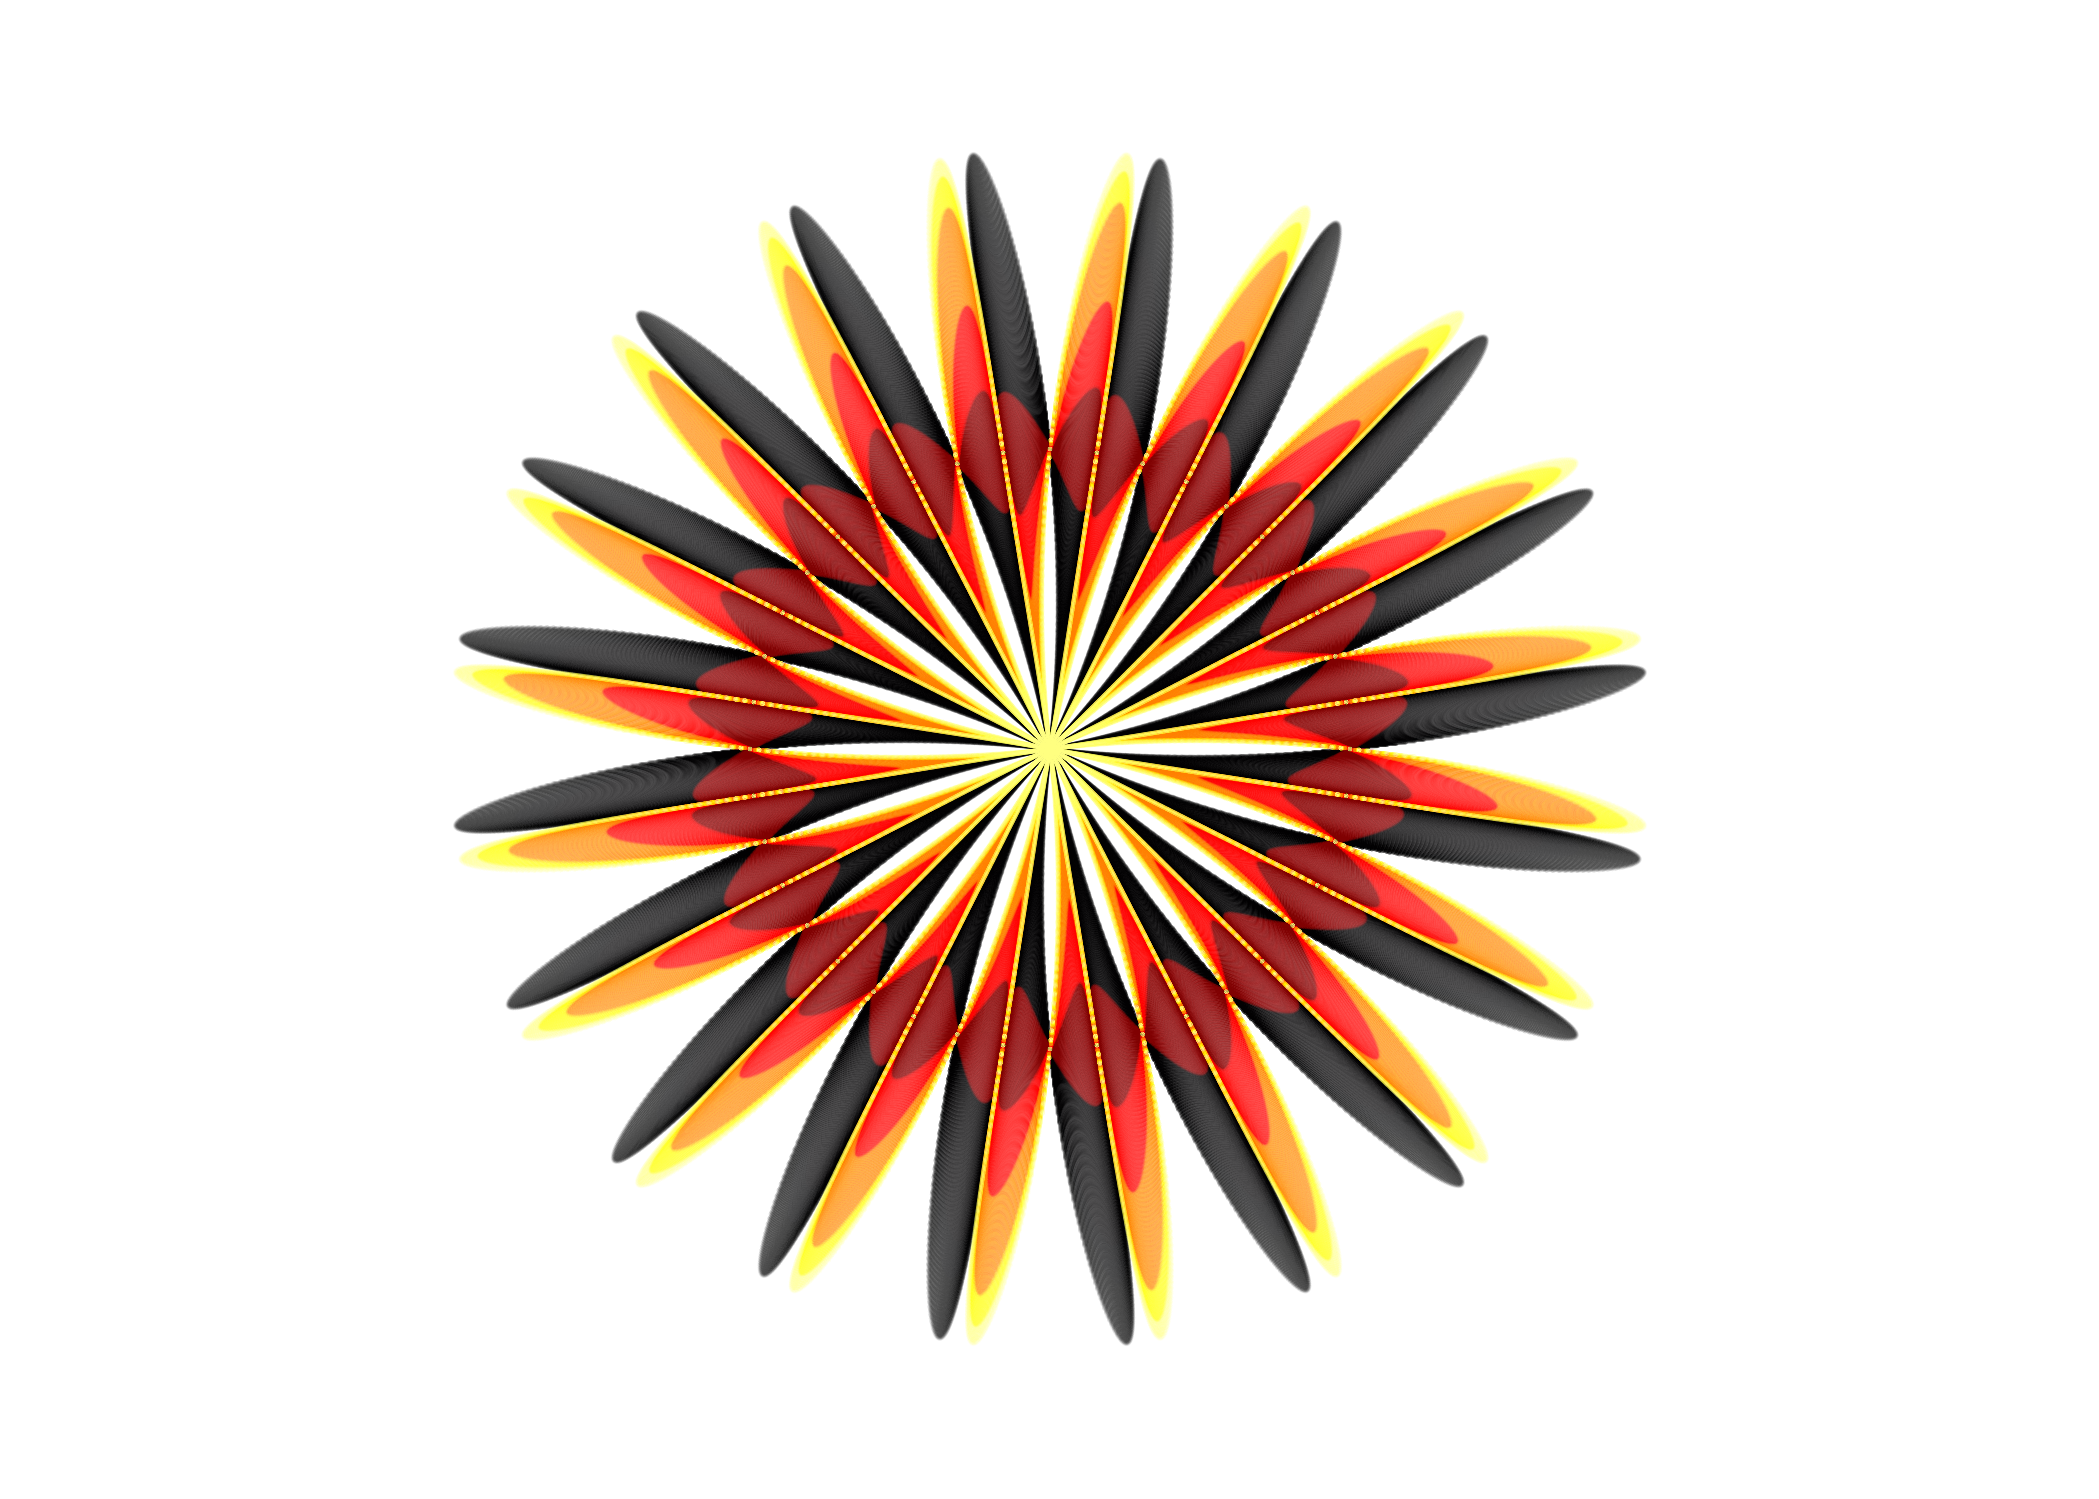
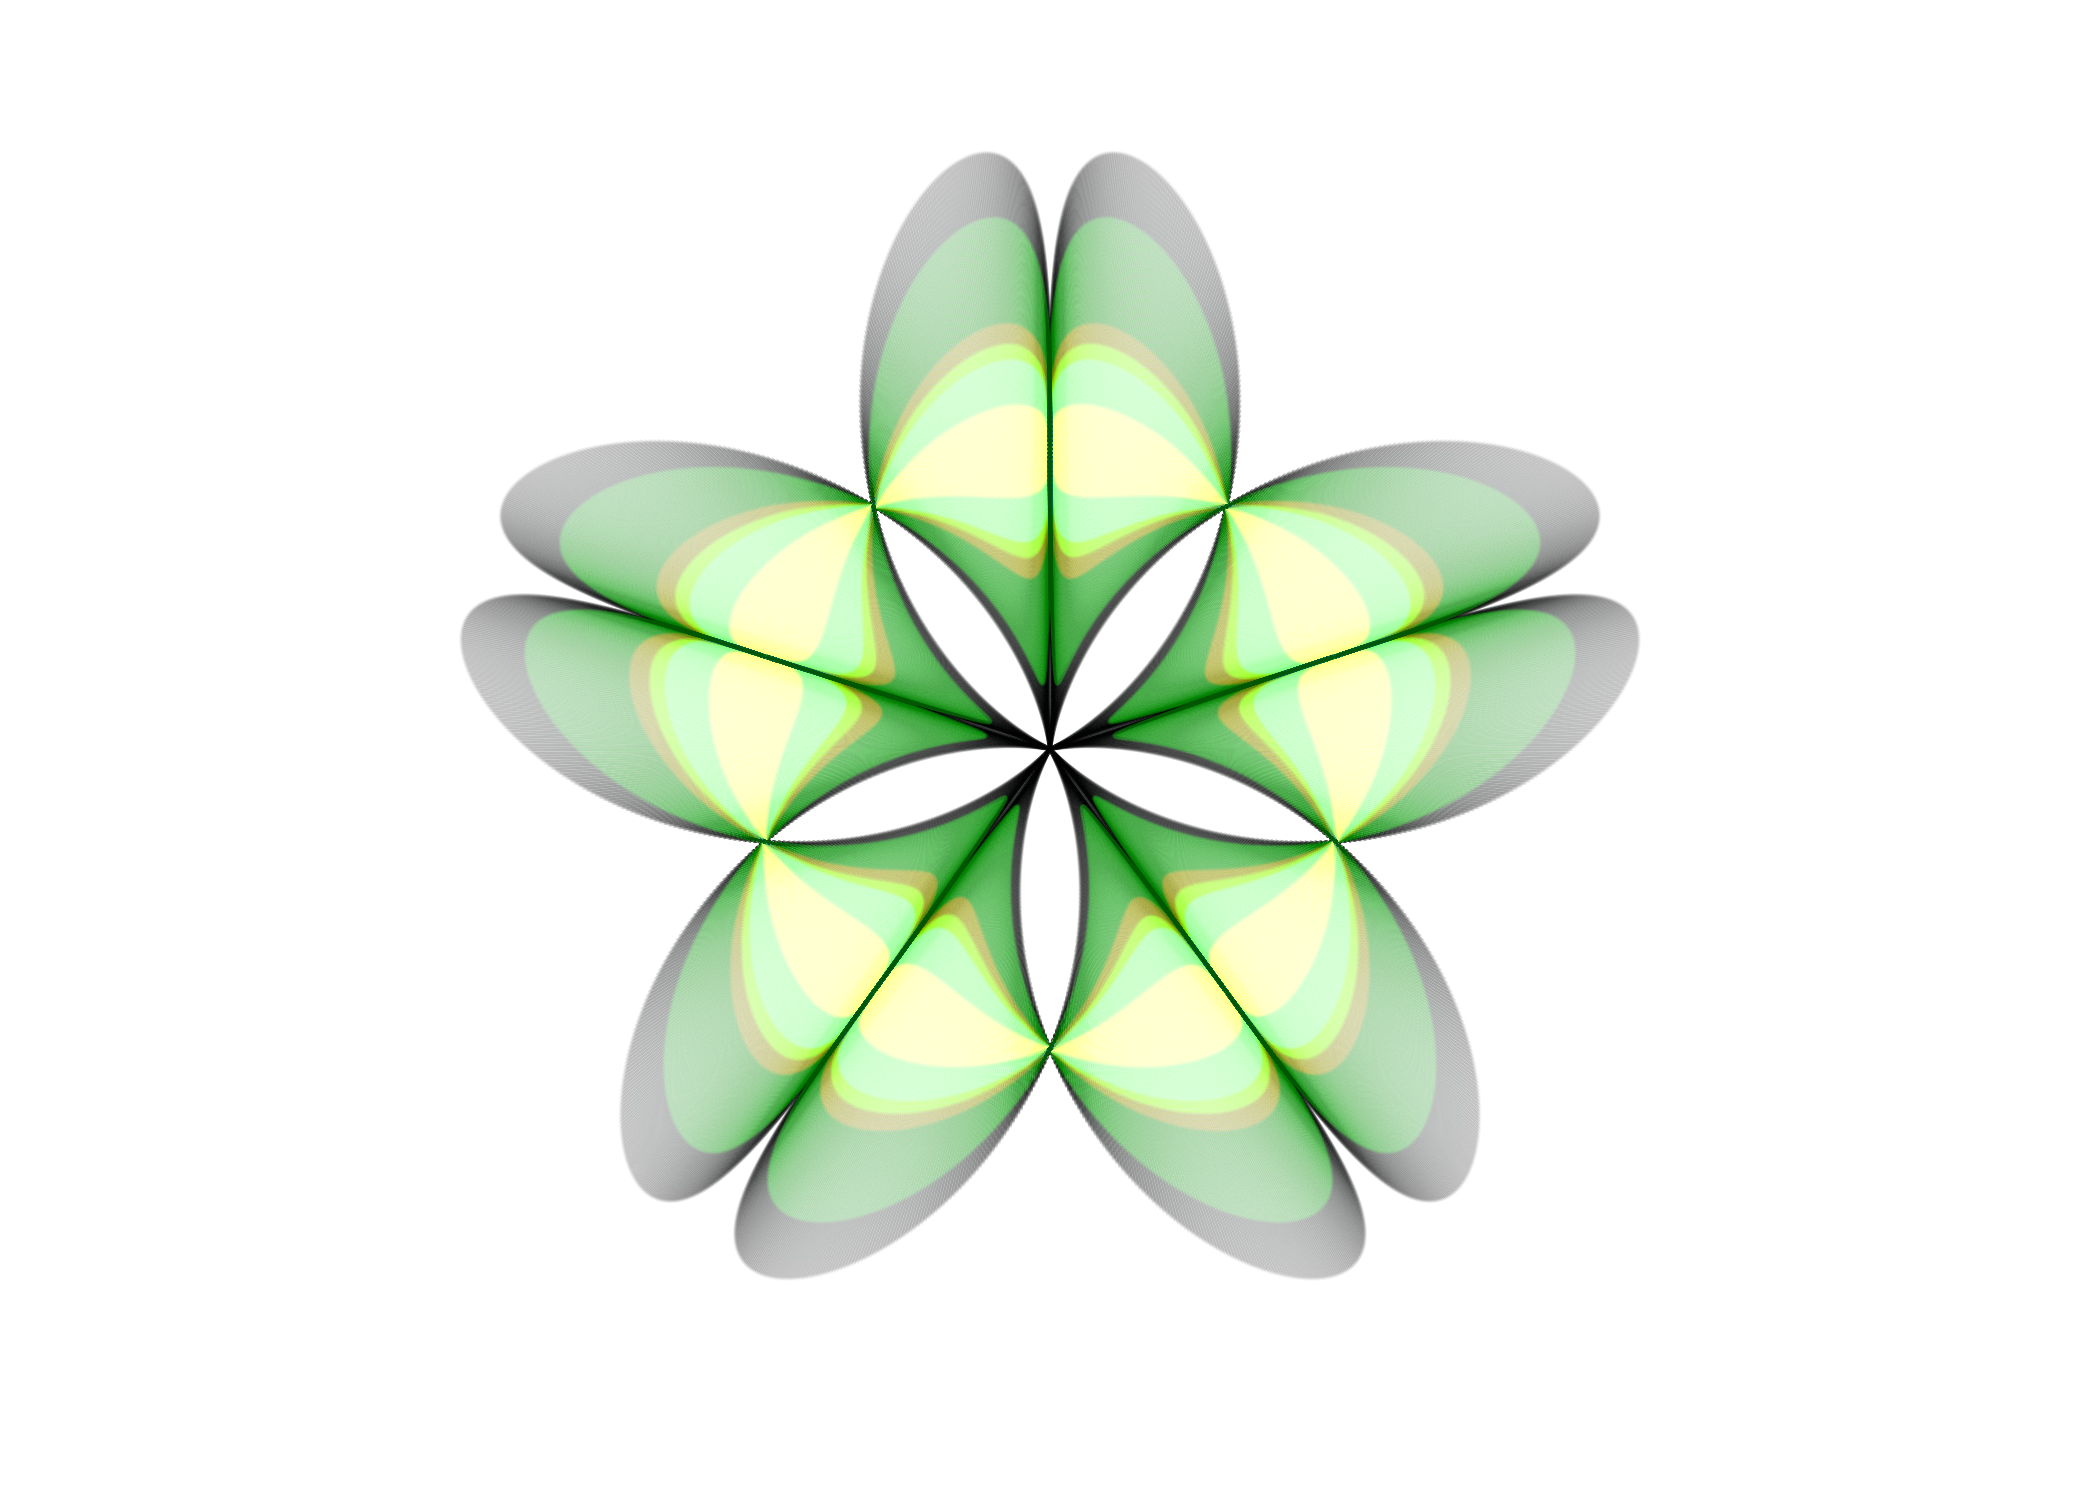
Flowers

Changed region(s): [[0.2168, 0.0921, 0.8051, 0.8899]]

diff --git a/content/rt/flowers/index.html b/content/rt/flowers/index.html
@@ -1,8 +1,8 @@
 ---
 subtitle: "Generative Rt"
-title: "Flowers"
-excerpt: "As flores de plástico não morrem"
-date: 2021-07-20
+title: "Flower"
+excerpt: "Got me so high, and then she dropped me"
+date: 2021-07-22
 author: "Deisy Morselli Gysi"
 draft: false
 # layout options: single, single-sidebar
@@ -23,21 +23,20 @@ tags:
 <script src="{{< blogdown/postref >}}index_files/header-attrs/header-attrs.js"></script>
 
 
-<p><em>As flores de plástico não morrem</em> (Titas)</p>
-<p>Plastic flowers don’t die.</p>
+<p><em>Got me so high, and then she dropped me</em> (Maroon five)</p>
 <pre class="r"><code>library(tidyverse)
 
 
-x = seq(from=-20, to=20, by = 0.01) %&gt;%
+x = seq(from=-5, to=5, by = 0.005) %&gt;%
   expand.grid(x=., y=.) 
 p = x %&gt;%
   ggplot() +
   aes(x=(pi*x + sin(x*pi)), 
       y=(y*pi * sin(x*pi)), 
-      color = y) + 
-  
+      color = abs(y)) + 
   geom_point(alpha=.01, shape=20, size=0)+
-  scale_color_viridis_c(option = &quot;inferno&quot;, direction = 1) +
+ scale_color_distiller(palette = &quot;YlGn&quot;, 
+ direction = 1) +
   theme_void()+
   theme(legend.position = &quot;none&quot; ) +
   coord_polar(); p</code></pre>

diff --git a/themes/hugo-apero/assets/theme/forest.scss b/themes/hugo-apero/assets/theme/forest.scss
@@ -19,3 +19,24 @@ $buttonHoverTextColorCustom: #FAF9F0;
 $buttonBgColorCustom: #5D987B;
 $buttonHoverBgColorCustom: #558B71;
 $borderColorCustom: #DDDDCF;
+
+
+$siteBgColorCustomDark: #1F3329;
+$sidebarBgColorCustomDark: #17261E;
+$textColorCustomDark: #F3F3EE;
+$sidebarTextColorCustomDark: #ffff;
+
+$headlineColorCustomDark: #5D987B;
+$headingColorCustomDark: #558B71;
+
+$bodyLinkColorCustomDark: #558B71;
+$navLinkColorCustomDark: #5D987B;
+$sidebarLinkColorCustomDark: #5D987B;
+
+$footerTextColorCustomDark: #558B71;
+
+$buttonTextColorCustomDark: #F3F3EE;
+$buttonHoverTextColorCustomDark: #F3F3EE;
+$buttonBgColorCustomDark: #2F4C3E;
+$buttonHoverBgColorCustomDark: #4A7862;
+$borderColorCustomDark: #DDDDCF;
